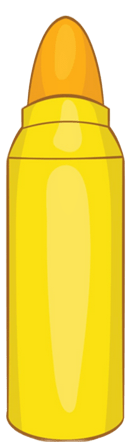
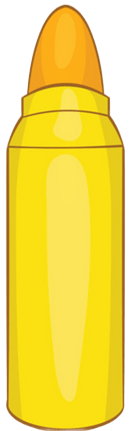
se modificaron las imagene de municiones

diff --git a/src/models/proyectil.py b/src/models/proyectil.py
@@ -19,7 +19,7 @@ class Proyectil:
         # Cargar la imagen del proyectil
         self.imagen = pygame.image.load(imagen)
         self.imagen = pygame.transform.scale(
-            self.imagen, (10, 20))  # Ajusta el tamaño de la imagen
+            self.imagen, (8, 15))  # Ajusta el tamaño de la imagen
         self.rect = self.imagen.get_rect()
         self.rect.topleft = (x, y)
 
